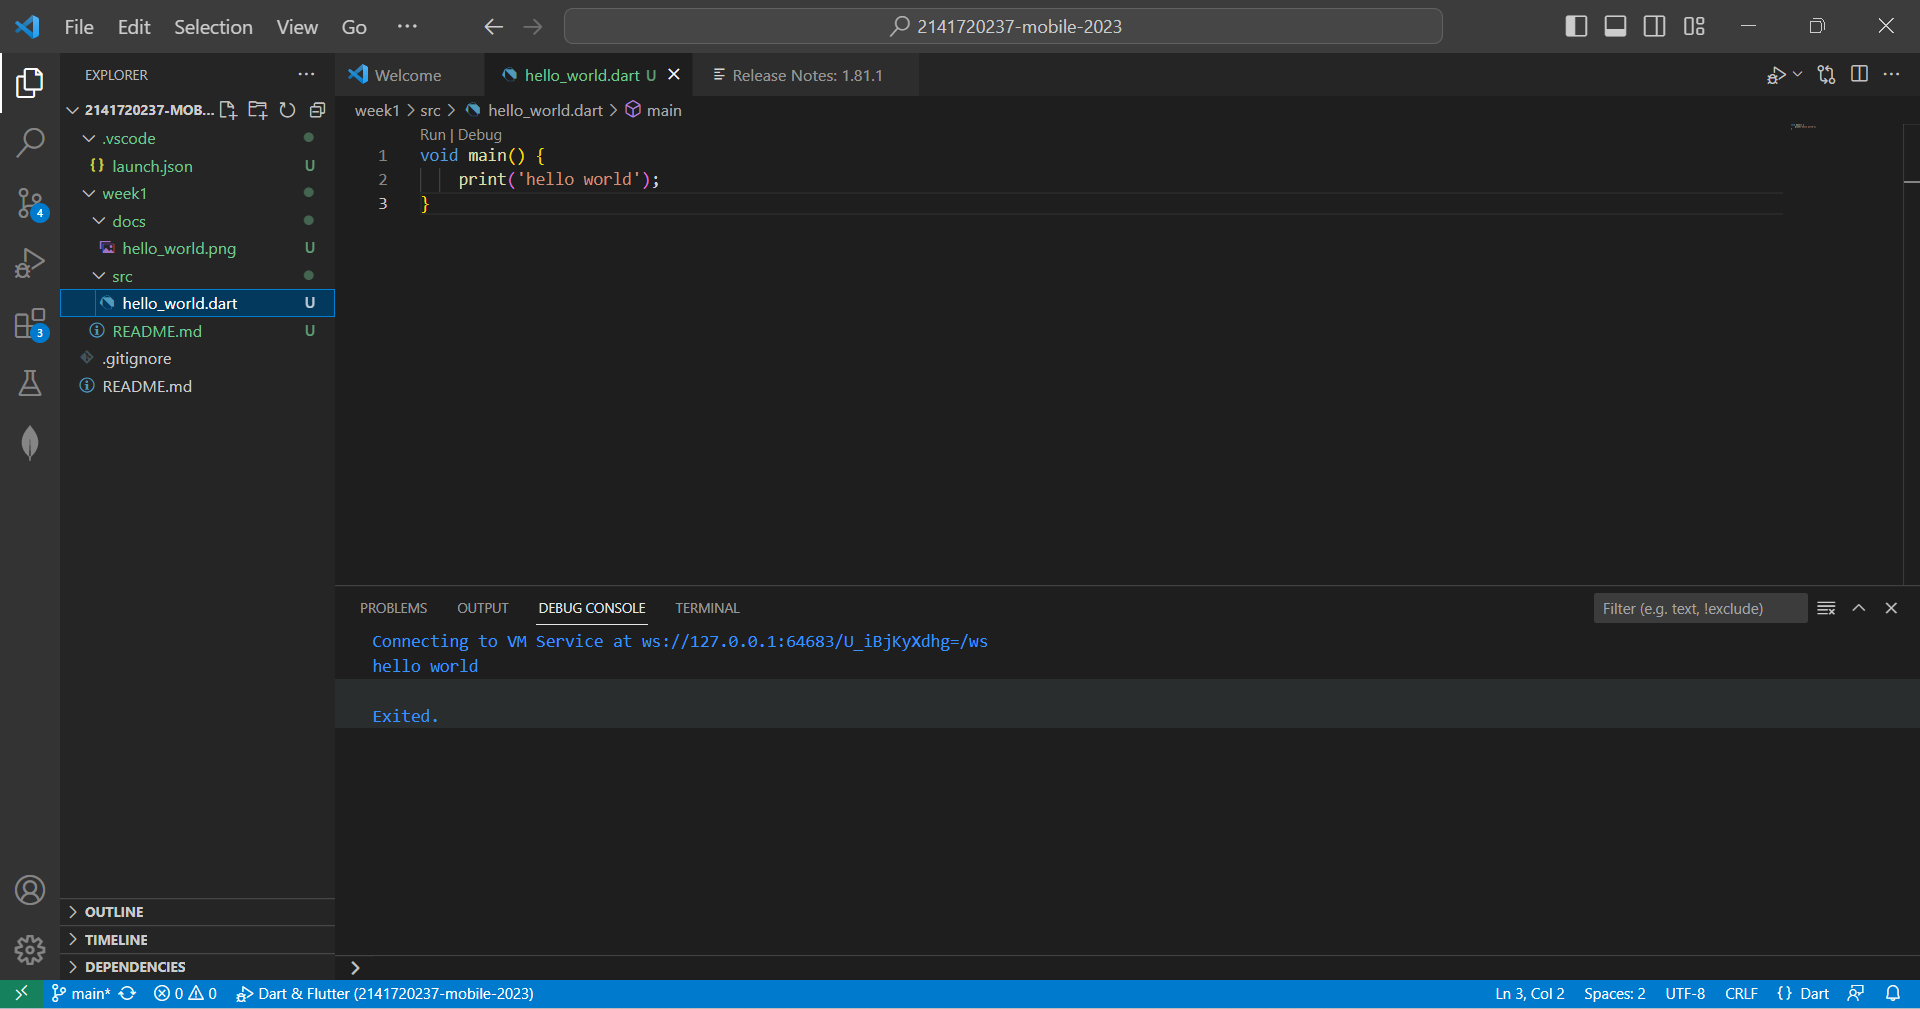
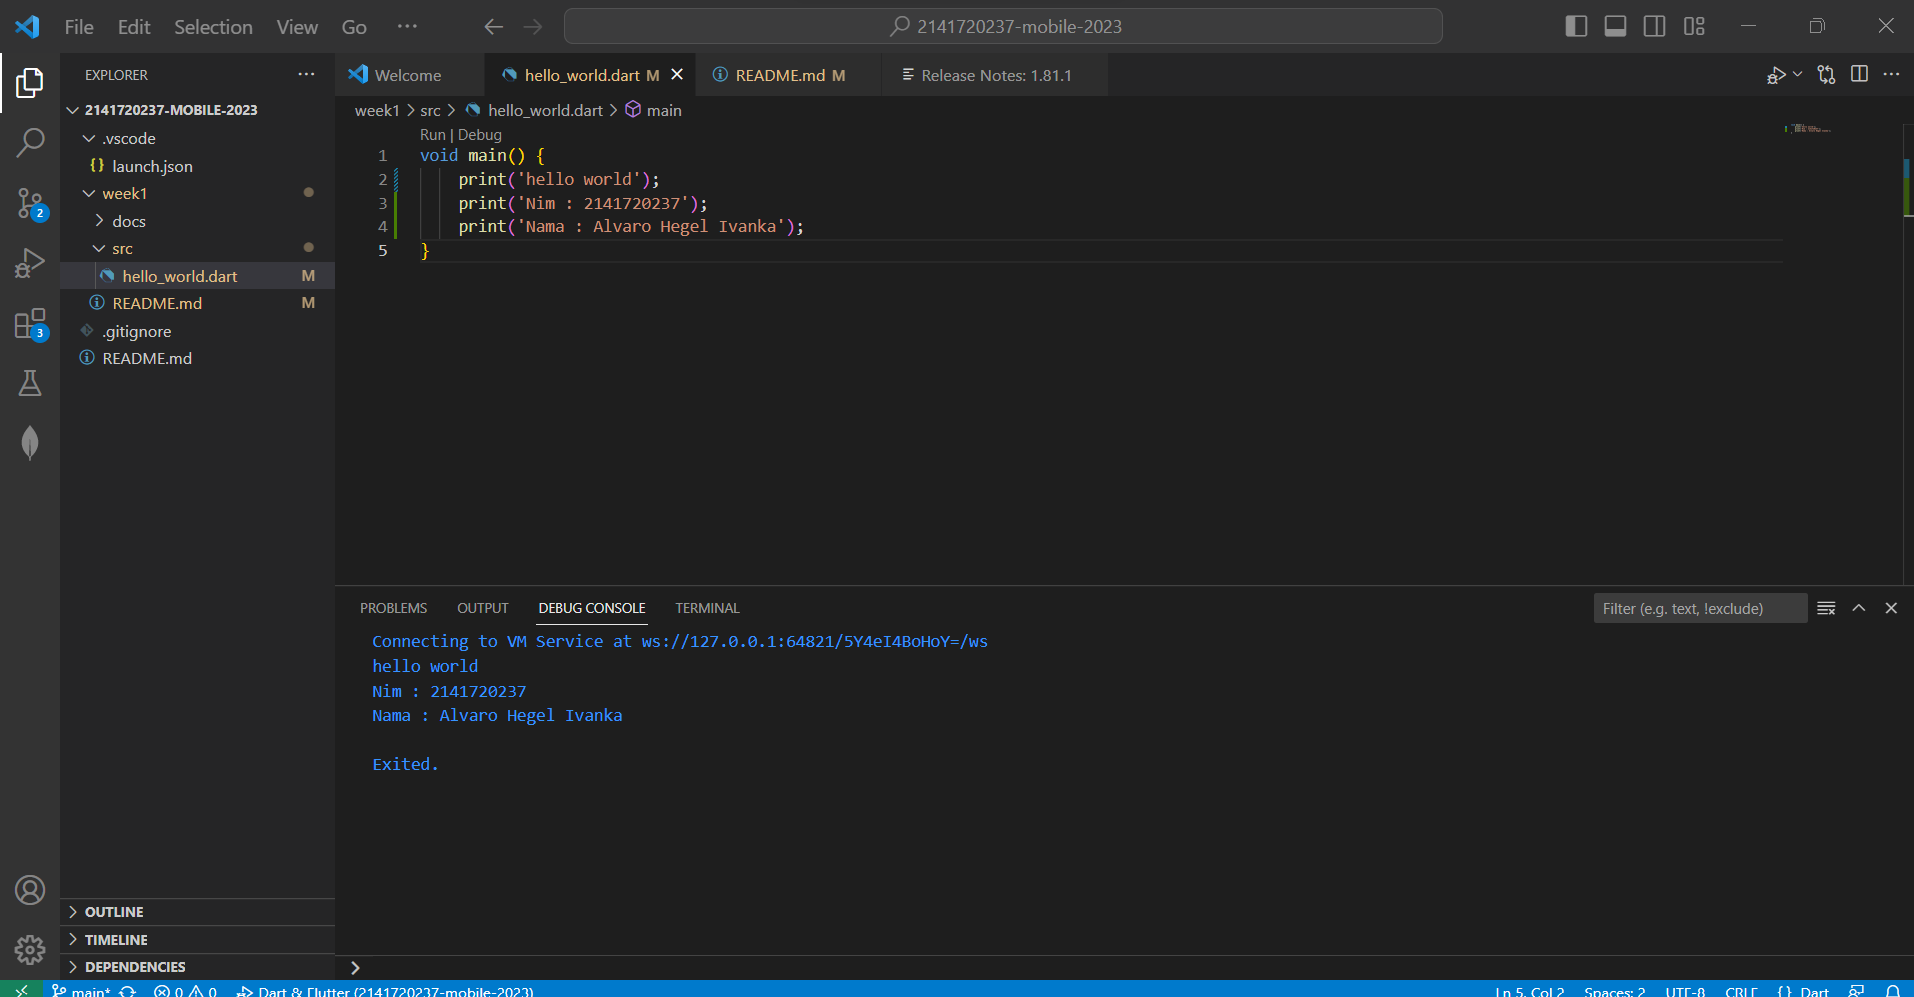
week

diff --git a/week1/src/hello_world.dart b/week1/src/hello_world.dart
@@ -1,3 +1,5 @@
 void main() { 
-    print('hello world');  
+    print('hello world'); 
+    print('Nim : 2141720237');
+    print('Nama : Alvaro Hegel Ivanka'); 
 }

diff --git a/week1/README.md b/week1/README.md
@@ -1,3 +1,7 @@
-# Alvaro Hegel Ivanka
-# 2141720237
+# pemrograman week 1
+project hello world
+nama:Alvaro Hegel Ivanka
+
+nim:2141720237
+
 ![Screenshot hello_world](docs/hello_world.png)
